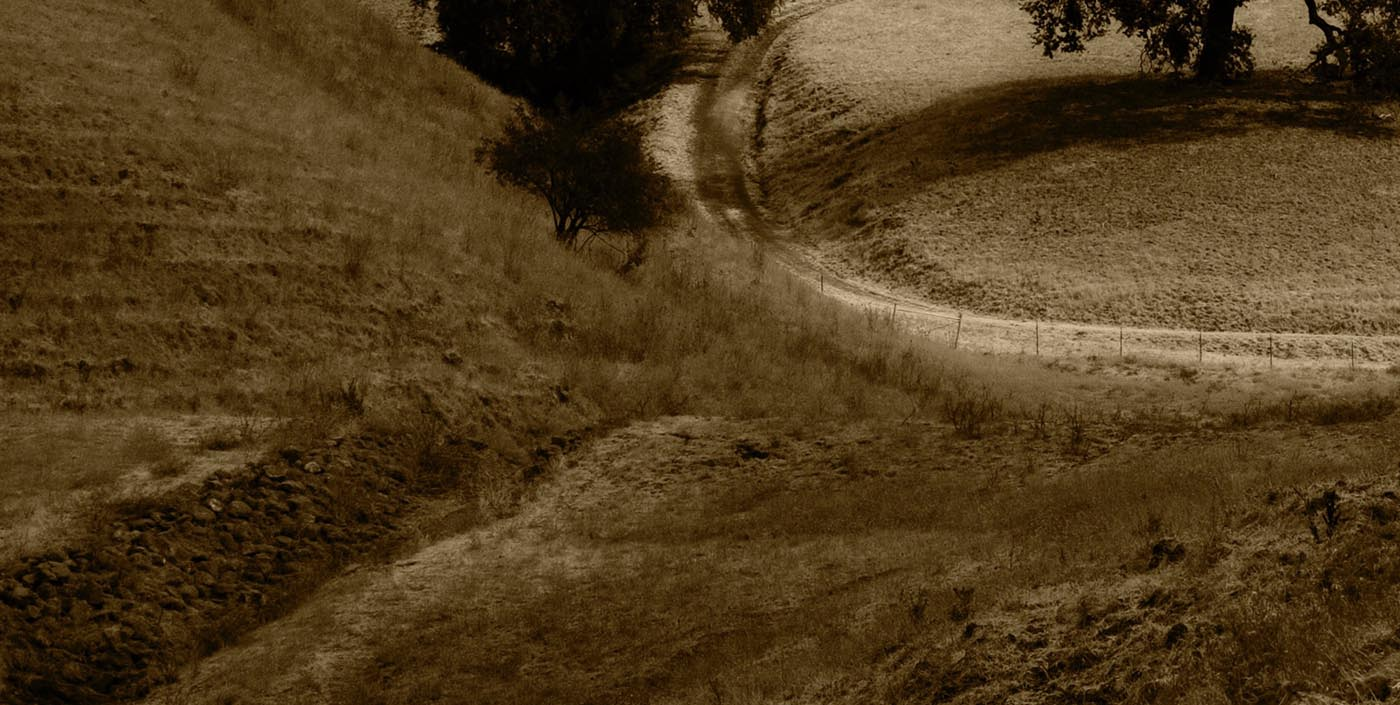
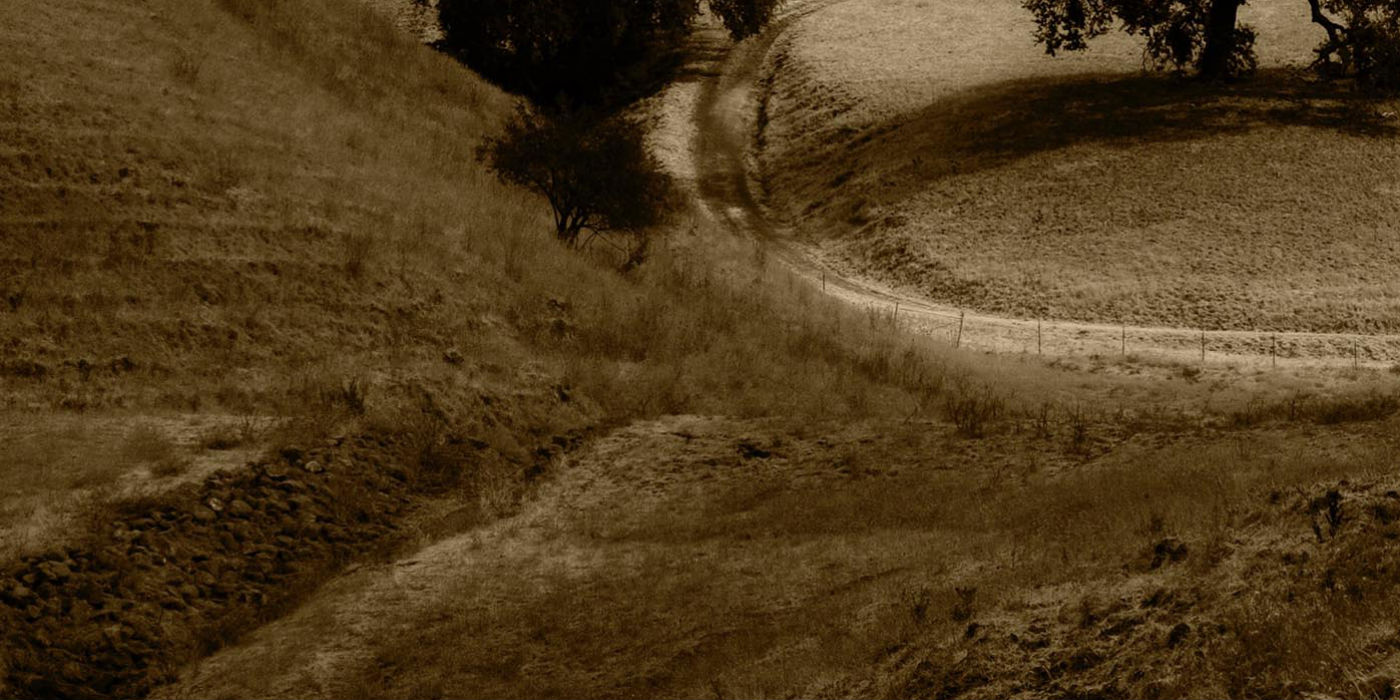
responsive tweaks

diff --git a/css/style.css b/css/style.css
@@ -1,1 +1,1 @@
-.clearfix:after{visibility:hidden;display:block;font-size:0;content:" ";clear:both;height:0}*,*:before,*:after{-webkit-box-sizing:border-box;-moz-box-sizing:border-box;box-sizing:border-box}*{margin:0;padding:0}body{font-family:'Vollkorn', serif;color:#444444}a{color:#ffffff}h1{font-size:100px;font-weight:400;line-height:65px;text-align:left}h2{color:#fff;font-size:60px;text-transform:uppercase;font-family:'Lato', sans-serif;font-weight:300;letter-spacing:1px;text-align:right;margin-right:5%;padding-top:641px}p{font-size:20px;line-height:40px}p .text-callout{font-style:italic;font-size:38px}.fw-container{position:relative;max-width:1400px}.slide-odd{background-attachment:fixed;background-size:cover;z-index:1;height:700px}.slide-even{z-index:2;background-color:#ffffff;text-align:center}.text{width:56%;display:inline-block;vertical-align:top;margin:0 auto;padding:10% 5%}.color-splash{width:36%;display:inline-block;margin:0 auto}.color-splash img{width:100%;text-align:center}#slide-1{background-image:url(../images/demo-site-photos/royal-purple.jpg);height:900px}#slide-1 header{position:absolute;top:5%;left:5%;color:#ffffff;max-width:660px;text-align:center}#slide-1 header .small{font-size:50px;font-style:italic;padding-right:20px}#slide-1 header .small:first-child{padding-left:60px}#slide-1 header .arrow{background-color:rgba(255,255,255,0.1);border-radius:100%;width:100px;height:100px;position:relative;margin:0 auto;margin-top:100px}#slide-1 header .arrow img{position:absolute;left:17px;top:35px}#slide-1 h2{padding-top:841px}#slide-3{background-image:url(../images/demo-site-photos/verdigris.jpg)}#slide-5{background-image:url(../images/demo-site-photos/ochre.jpg)}#slide-7{background-image:url(../images/demo-site-photos/kohl.jpg)}#slide-9{background-image:url(../images/demo-site-photos/magenta.jpg)}#slide-11{background-image:url(../images/demo-site-photos/emerald.jpg)}#slide-13{background-image:url(../images/demo-site-photos/cinnibar.jpg)}#slide-15{background-image:url(../images/demo-site-photos/brown.jpg)}#slide-17{background-image:url(../images/demo-site-photos/prussian-blue.jpg)}#slide-19{background-image:url(../images/demo-site-photos/deep-champagne.jpg)}footer{font-size:16px;background-color:black;padding:40px;text-align:center;color:white}footer a:hover{color:#8BC9BE}@media (max-width: 1060px){.text{padding:8% 5%}}@media (max-width: 950px){.text p{font-size:18px;line-height:36px}.text-callout{font-size:34px}}@media (max-width: 725px){.text,.color-splash{display:block;width:75%}.text{padding:5% 5%}#slide-1 header h1{font-size:85px;line-height:50px}#slide-1 header .small{font-size:38px;font-style:italic;padding-right:15px}#slide-1 header .small:first-child{padding-left:45px}}@media (max-width: 585px){#slide-1 header h1{line-height:80px}#slide-1 header .small{line-height:50px;font-size:38px;font-style:italic;padding-right:15px}#slide-1 header .small:first-child{padding-left:45px}#slide-1 h2{padding-top:862px}h2{font-size:40px;padding-top:662px;margin-right:0;text-align:center}.text{padding:5% 3%}}
+.clearfix:after{visibility:hidden;display:block;font-size:0;content:" ";clear:both;height:0}*,*:before,*:after{-webkit-box-sizing:border-box;-moz-box-sizing:border-box;box-sizing:border-box}*{margin:0;padding:0}body{font-family:'Vollkorn', serif;color:#444444}a{color:#ffffff}h1{font-size:100px;font-weight:400;line-height:65px;text-align:left}h2{color:#fff;font-size:60px;text-transform:uppercase;font-family:'Lato', sans-serif;font-weight:300;letter-spacing:1px;text-align:right;margin-right:5%;padding-top:641px}p{font-size:20px;line-height:40px}p .text-callout{font-style:italic;font-size:38px}.fw-container{position:relative}.slide-odd{background-attachment:fixed;-webkit-background-size:cover;background-size:cover;z-index:1;height:700px}.slide-even{z-index:2;background-color:#ffffff;text-align:center}.text{width:56%;display:inline-block;vertical-align:top;margin:0 auto;padding:10% 5%}.color-splash{width:36%;display:inline-block;margin:0 auto}.color-splash img{width:100%;text-align:center}#slide-1{background-image:url(../images/demo-site-photos/royal-purple.jpg);height:900px}#slide-1 header{position:absolute;top:5%;left:5%;color:#ffffff;text-align:center}#slide-1 header .small{font-size:50px;font-style:italic;padding-right:20px}#slide-1 header .small:first-child{padding-left:60px}#slide-1 header .arrow{background-color:rgba(255,255,255,0.1);border-radius:100%;width:100px;height:100px;position:relative;margin:0 auto;margin-top:100px}#slide-1 header .arrow img{position:absolute;left:17px;top:35px}#slide-1 h2{padding-top:841px}#slide-3{background-image:url(../images/demo-site-photos/verdigris.jpg)}#slide-5{background-image:url(../images/demo-site-photos/ochre.jpg)}#slide-7{background-image:url(../images/demo-site-photos/kohl.jpg)}#slide-9{background-image:url(../images/demo-site-photos/magenta.jpg)}#slide-11{background-image:url(../images/demo-site-photos/emerald.jpg)}#slide-13{background-image:url(../images/demo-site-photos/cinnibar.jpg)}#slide-15{background-image:url(../images/demo-site-photos/brown.jpg)}#slide-17{background-image:url(../images/demo-site-photos/prussian-blue.jpg)}#slide-19{background-image:url(../images/demo-site-photos/deep-champagne.jpg)}footer{font-size:16px;background-color:#444444;padding:40px;text-align:center;color:white;line-height:30px}footer a:hover{color:#8BC9BE}@media (max-width: 1060px){.text{padding:8% 5%}}@media (max-width: 950px){.text p{font-size:18px;line-height:36px}.text-callout{font-size:34px}}@media (max-width: 725px){.text,.color-splash{display:block;width:80%}.text{padding:5% 5%;text-align:left;width:80%}#slide-1 header h1{font-size:85px;line-height:50px}#slide-1 header .small{font-size:38px;font-style:italic;padding-right:15px}#slide-1 header .small:first-child{padding-left:45px}}@media (max-width: 585px){.slide-odd{height:300px;background-attachment:scroll;background-size:200% auto}#slide-1{height:500px;background-attachment:scroll;background-size:350% auto}#slide-1 .arrow{display:none}#slide-1 header h1{line-height:80px}#slide-1 header .small{line-height:50px;font-size:38px;font-style:italic;padding-right:15px}#slide-1 header .small:first-child{padding-left:45px}#slide-1 h2{padding-top:470px}h2{font-size:30px;padding-top:270px;margin-right:0;text-align:center}.text{padding:4% 0%}}

diff --git a/index.html b/index.html
@@ -3,6 +3,8 @@
 	<head>
 		<title>The Origins of Color</title>
 
+		<meta name="viewport" content="width=device-width, initial-scale=1.0">
+
 		<link href='http://fonts.googleapis.com/css?family=Lato:300,400,300italic|Vollkorn:400italic,400' rel='stylesheet' type='text/css'>
 		<link href='css/style.css' rel='stylesheet' type='text/css'>
 
@@ -12,7 +14,7 @@
 			<div class="fw-container slide-odd" id="slide-1">
         <header data-scroll-reveal="enter top and move 50px over 1.25s">
         		<h1><span class="small">the <br></span>Origins <span class="small">of </span>Color</h1>
-        		<div class="arrow"><img src="images/arrow.png"></div>
+        		<div class="arrow" ><img src="images/arrow.png"></div>
         </header>
         <h2 data-scroll-reveal="enter right and move 150px over 2s">Tyrian Purple</h2>
 			</div>
@@ -27,7 +29,7 @@
 			  </div>
 
 			<div class="fw-container slide-odd"  id="slide-3">
-					<h2 data-scroll-reveal="enter right and move 150px over 1.75s">Verdigris</h2>
+					<h2 data-scroll-reveal="enter left and move 150px over 1.75s">Verdigris</h2>
 			</div>
 
 			<div class="fw-container slide-even " id="slide-4">
@@ -40,7 +42,7 @@
 			</div>
 
 			<div class="fw-container slide-odd"  id="slide-5">
-						<h2 data-scroll-reveal="enter right and move 150px over 2s">Ochre</h2>
+						<h2 data-scroll-reveal="enter left and move 150px over 2s">Ochre</h2>
 			</div>
 
 			<div class="fw-container slide-even" id="slide-6">
@@ -53,7 +55,7 @@
 			</div>
 
 			<div class="fw-container slide-odd" id="slide-7">
-					<h2 data-scroll-reveal="enter right and move 150px over 2s">Kohl</h2>
+					<h2 data-scroll-reveal="enter left and move 150px over 2s">Kohl</h2>
 			</div>
 
 			<div class="fw-container slide-even" id="slide-8">
@@ -66,7 +68,7 @@
 			</div>
 
 			<div class="fw-container slide-odd" id="slide-9">
-					<h2 data-scroll-reveal="enter right and move 150px over 2s">Magenta</h2>
+					<h2 data-scroll-reveal="enter left and move 150px over 2s">Magenta</h2>
 			</div>
 
 			<div class="fw-container slide-even" id="slide-10">
@@ -79,7 +81,7 @@
 			</div>
 
 			<div class="fw-container slide-odd"  id="slide-11">
-					<h2>Emerald Green</h2>
+					<h2 data-scroll-reveal="enter left and move 150px over 2s">Emerald Green</h2>
 			</div>
 
 			<div class="fw-container slide-even" id="slide-12">
@@ -92,7 +94,7 @@
 			</div>
 
 			<div class="fw-container slide-odd"  id="slide-13">
-					<h2>Cinnibar Red</h2>
+					<h2 data-scroll-reveal="enter left and move 150px over 2s">Cinnibar Red</h2>
 			</div>
 
 			<div class="fw-container slide-even" id="slide-14">
@@ -105,7 +107,7 @@
 			</div>
 
 			<div class="fw-container slide-odd" id="slide-15">
-					<h2>Van Dyke Brown</h2>
+					<h2 data-scroll-reveal="enter left and move 150px over 2s">Van Dyke Brown</h2>
 			</div>
 
 			<div class="fw-container slide-even" id="slide-16">
@@ -118,7 +120,7 @@
 			</div>
 
 			<div class="fw-container slide-odd" id="slide-17">
-					<h2>Prussian Blue</h2>
+					<h2 data-scroll-reveal="enter left and move 150px over 2s">Prussian Blue</h2>
 			</div>
 
 			<div class="fw-container slide-even" id="slide-18">
@@ -131,7 +133,7 @@
 			</div>
 
 			<div class="fw-container slide-odd" id="slide-19">
-					<h2>Deep Champagne</h2>
+					<h2 data-scroll-reveal="enter left and move 150px over 2s">Deep Champagne</h2>
 			</div>
 
 			<div class="fw-container slide-even" id="slide-20">
@@ -146,9 +148,10 @@
 		<footer>
 				Designed and developed by <a href="https://twitter.com/ahoefinger" target="_blank">@ahoefinger</a>, inspired by <a href="http://unsplash.com/" target="_blank">Unsplash</a> and Design Sponge's <a href="http://www.designsponge.com/category/color-history" target="_blank">Color History</a>.
 		</footer>
-		  <script src='js/scrollReveal.js'></script>
-		  <script>
-		      window.scrollReveal = new scrollReveal();
-		  </script>
+		<script src='js/scrollReveal.js'></script>
+		<script>
+		  var isMobile = /Android|webOS|iPhone|iPad|iPod|BlackBerry/i.test(navigator.userAgent) ? true : false;
+			if(!isMobile) {window.scrollReveal = new scrollReveal();}
+		</script>
 	</body>
 </html>

diff --git a/css/style.scss b/css/style.scss
@@ -59,11 +59,11 @@ p {
 
 .fw-container {
   position: relative;
-  max-width: 1400px;
 }
 
 .slide-odd {
   background-attachment: fixed;
+  -webkit-background-size:cover;
   background-size: cover;
   z-index: 1;
   height: 700px;
@@ -103,7 +103,6 @@ p {
     top: 5%;
     left: 5%;
     color: #ffffff;
-    max-width: 660px;
     text-align: center;
     .small {
       font-size: 50px;
@@ -171,10 +170,11 @@ p {
 
 footer {
   font-size: 16px;
-  background-color: black;
+  background-color: #444444;
   padding: 40px;
   text-align: center;
   color: white;
+  line-height: 30px;
   a {
     &:hover {
      color:#8BC9BE;
@@ -199,9 +199,9 @@ footer {
 @media (max-width: 725px) {
   .text, .color-splash {
     display: block;
-    width: 75%;
+    width: 80%;
   }
-  .text {padding: 5% 5%;}
+  .text {padding: 5% 5%; text-align: left; width: 80%;}
   #slide-1 header h1 {
     font-size: 85px;
     line-height: 50px;
@@ -217,6 +217,9 @@ footer {
 }
 
 @media (max-width: 585px) {
+  .slide-odd {height: 300px; background-attachment: scroll; background-size: 200% auto;}
+  #slide-1 {height: 500px; background-attachment: scroll; background-size: 350% auto;}
+  #slide-1 .arrow {display: none;}
   #slide-1 header h1 {line-height: 80px;}
   #slide-1 header .small {
     line-height: 50px;
@@ -228,13 +231,13 @@ footer {
     }
   }
   #slide-1  h2 {
-    padding-top: 862px;
+    padding-top: 470px;
   }
   h2 {
-    font-size: 40px;
-    padding-top: 662px;
+    font-size: 30px;
+    padding-top: 270px;
     margin-right: 0;
     text-align: center;
   }
-  .text {padding: 5% 3%;}
+  .text {padding: 4% 0%;}
 }
